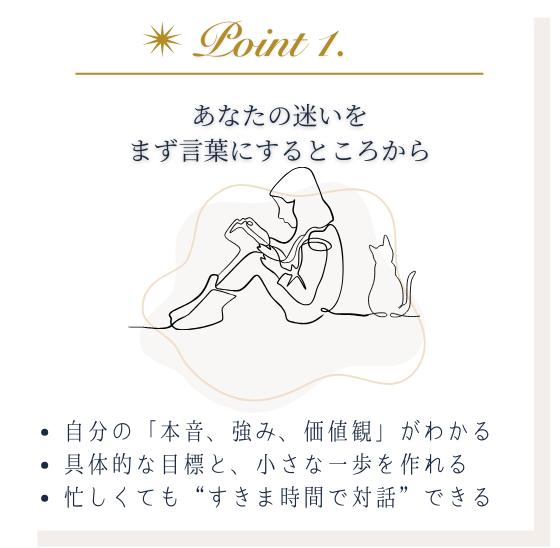
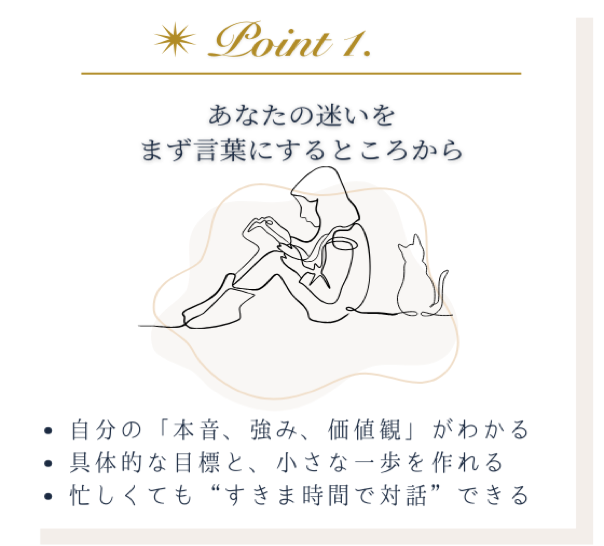
LP改善: copy2テキスト化、フォントサイズ調整、Point画像幅統一、チャット高さ調整など
Made-with: Cursor

diff --git a/index.html b/index.html
@@ -59,11 +59,24 @@
                 linear-gradient(to bottom, rgba(255,255,255,0.45) 1px, transparent 1px);
             background-size: 28px 28px;
         }
-        /* チャット iframe: モバイルで高さ控えめ、sm以上で700px */
-        .chat-iframe-wrap { min-height: 420px; }
-        .chat-iframe-h { min-height: 420px; display: block; }
-        @media (min-width: 640px) { .chat-iframe-wrap { min-height: 600px; } .chat-iframe-h { min-height: 600px; } }
-        @media (min-width: 1024px) { .chat-iframe-wrap { min-height: 700px; } .chat-iframe-h { min-height: 700px; } }
+        /* チャット iframe: スマホは画面いっぱい、PCは1画面に収まる高さ */
+        .chat-iframe-wrap { min-height: calc(100vh - 140px); }
+        .chat-iframe-h { min-height: calc(100vh - 140px); display: block; }
+        @media (min-width: 640px) {
+            .chat-iframe-wrap { min-height: min(600px, calc(100vh - 180px)); }
+            .chat-iframe-h { min-height: min(600px, calc(100vh - 180px)); }
+        }
+        @media (min-width: 1024px) {
+            .chat-iframe-wrap { height: min(700px, calc(100vh - 260px)); min-height: 420px; }
+            .chat-iframe-h { height: min(700px, calc(100vh - 260px)); min-height: 420px; display: block; }
+        }
+        /* 正式版でできること: ゴールドライン・フォントサイズ */
+        .section-official { position: relative; }
+        .section-official::before { content: ''; position: absolute; top: 0; left: 50%; transform: translateX(-50%); width: 80%; max-width: 400px; height: 2px; background: linear-gradient(to right, transparent, #b8860b, #daa520, transparent); opacity: 0.9; }
+        .section-official .section-title { font-size: 28px; }
+        .section-official .section-subtitle { font-size: 21px; }
+        .section-official .section-body { font-size: 17px; }
+        .section-official .gold-line { height: 2px; background: linear-gradient(to right, #b8860b, #daa520); margin: 0.5rem auto 1.5rem; width: 120px; }
     </style>
 </head>
 <body class="text-gray-800">
@@ -79,7 +92,7 @@
         <div class="fv-wrap relative z-10 px-4 sm:px-0 pt-0 sm:pt-1 pb-10 sm:pb-14">
             <!-- メインコピー＋PC画像（FV_TOP.png） -->
             <div class="mb-1 sm:mb-2 flex justify-center fv-animate">
-                <img src="image/FV_TOP.png" alt="わたしらしさの輪郭を取り戻し、一歩前へ" class="w-full max-w-[920px] mx-auto h-auto object-contain object-[0%_45%]" />
+                <img src="image/FV_TOP.png" alt="わたしらしさの輪郭を取り戻し、一歩前へ" class="w-full max-w-[850px] mx-auto h-auto object-contain object-[0%_45%]" />
             </div>
 
             <div class="relative flex flex-col md:flex-row md:items-flex-start md:justify-center md:gap-6">
@@ -90,11 +103,11 @@
                         <img src="image/FV_message1.png" alt="育児も、キャリアも どちらも大切にしたい でも、どう進めばいいのか わからない――" class="w-full h-auto" />
                     </div>
                     <!-- 下部: FV_message2 と FV_hands を常に横並び -->
-                    <div class="flex flex-row items-center justify-center gap-2 sm:gap-4 md:gap-6 fv-animate fv-animate-delay-3 w-full max-w-[520px] mt-1 sm:mt-2">
-                        <div class="max-w-[240px] sm:max-w-[340px] md:max-w-[440px] flex-shrink-0 fv-hover-scale">
+                    <div class="flex flex-row items-start justify-center gap-2 sm:gap-4 md:gap-6 fv-animate fv-animate-delay-3 w-full max-w-[520px] mt-1 sm:mt-2">
+                        <div class="max-w-[260px] sm:max-w-[360px] md:max-w-[480px] flex-shrink-0 fv-hover-scale">
                             <img src="image/FV_message2.png" alt="その迷いに寄り添い、あなたのペースで未来を描く 専任AIコーチが伴走します" class="w-full h-auto" />
                         </div>
-                        <div class="rounded-2xl overflow-hidden border border-white/80 shadow-md max-w-[110px] sm:max-w-[160px] md:max-w-[200px] flex-shrink-0 fv-float">
+                        <div class="rounded-2xl overflow-hidden border border-white/80 shadow-md max-w-[110px] sm:max-w-[160px] md:max-w-[200px] flex-shrink-0 fv-float -mt-2 sm:-mt-4 self-start">
                             <img src="image/FV_hands.png" alt="大切な人と手をつなぐ" class="w-full h-auto object-cover object-center" />
                         </div>
                     </div>
@@ -109,33 +122,42 @@
         </div>
     </section>
 
-    <section class="px-4 py-6 sm:px-6 sm:py-8 md:px-8 md:py-10 text-center bg-[#f3eeea]">
-        <img src="image/kazari.png" alt="" class="mx-auto mb-5 sm:mb-6 max-w-[260px] sm:max-w-[300px] w-full h-auto object-contain" aria-hidden="true" />
-        <h2 class="font-source-han-serif text-xl font-bold mb-5 sm:mb-6 text-gray-700">こんな悩み、抱えていませんか？</h2>
-        <div class="flex flex-col justify-center items-center gap-5 sm:gap-6">
-            <img src="image/nayami1.png" alt="やりたいことがあったはずなのに、いつしか見えなくなってしまった" class="fv-hover-scale max-w-[min(560px,94vw)] w-auto h-auto object-contain cursor-pointer" />
-            <img src="image/nayami2.png" alt="産後、キャリアが止まった気がする" class="fv-hover-scale max-w-[min(560px,94vw)] w-auto h-auto object-contain cursor-pointer" />
-            <img src="image/nayami3.png" alt="自信がなくなり、挑戦する気力が湧かない" class="fv-hover-scale max-w-[min(560px,94vw)] w-auto h-auto object-contain cursor-pointer" />
+    <section class="px-4 py-4 sm:px-6 sm:py-6 md:px-8 md:py-6 text-center bg-[#f3eeea] min-h-0">
+        <img src="image/kazari.png" alt="" class="mx-auto mb-3 sm:mb-4 max-w-[200px] sm:max-w-[240px] w-full h-auto object-contain" aria-hidden="true" />
+        <h2 class="font-source-han-serif text-[26px] font-bold mb-3 sm:mb-4 text-gray-700">こんな悩み、抱えていませんか？</h2>
+        <div class="flex flex-col justify-center items-center gap-3 sm:gap-4">
+            <img src="image/nayami1.png" alt="やりたいことがあったはずなのに、いつしか見えなくなってしまった" class="fv-hover-scale max-w-[min(320px,80vw)] w-auto h-auto object-contain cursor-pointer" />
+            <img src="image/nayami2.png" alt="産後、キャリアが止まった気がする" class="fv-hover-scale max-w-[min(320px,80vw)] w-auto h-auto object-contain cursor-pointer" />
+            <img src="image/nayami3.png" alt="自信がなくなり、挑戦する気力が湧かない" class="fv-hover-scale max-w-[min(320px,80vw)] w-auto h-auto object-contain cursor-pointer" />
         </div>
-        <p class="font-source-han-serif mt-6 sm:mt-8 text-lg text-gray-500 max-w-xl mx-auto px-2">
-            子育てと仕事に忙しい毎日の中では、自分自身のことを考える時間は後回しになりがち。誰にも相談できず、自分一人で抱え込んでしまう。そんなママたちの声を元に、このサービスは誕生しました。
+        <p class="font-source-han-serif mt-4 sm:mt-5 text-base text-gray-500 max-w-xl mx-auto px-2 leading-relaxed">
+            子供との時間も大切にしたいけど、<br />
+            　思うようにキャリアを描けないもどかしさ。<br />
+            <br />
+            　あなたの迷いは、あなたのせいじゃない。<br />
+            　環境が変わる中で、<br />
+            　ひとりで答えを出すのはとても難しいから
         </p>
     </section>
 
     <section class="px-4 py-6 sm:px-6 sm:py-8 md:px-8 md:py-10 bg-grid-white">
         <div class="text-center mb-6 sm:mb-8">
-            <img src="image/copy2.png" alt="あなた専属の AIキャリアコーチ が伴走します" class="mx-auto max-w-[85vw] sm:max-w-[320px] md:max-w-[400px] w-auto h-auto object-contain" />
+            <p class="copy2-text font-source-han-serif font-bold text-[26px] leading-relaxed tracking-wide" style="color: #567985;">
+                <span class="block">あなた専属の</span>
+                <span class="inline-block mt-1 px-4 py-1.5 bg-white rounded-sm mx-auto">AIキャリアコーチ</span>
+                <span class="block mt-1">が伴走します</span>
+            </p>
         </div>
 
         <div class="flex flex-col md:flex-row md:flex-wrap md:items-start md:justify-center md:gap-4 max-w-full md:max-w-5xl mx-auto px-1 w-full">
-            <div class="w-full md:w-1/3 md:flex md:flex-col md:items-center md:flex-shrink-0">
-                <img src="image/point1.png" alt="Point 1. あなたの迷いをまず言葉にするところから" class="fv-hover-scale w-full max-w-full h-auto object-contain cursor-pointer" />
+            <div class="w-full md:flex-1 md:min-w-0 md:flex md:flex-col md:items-center">
+                <img src="image/point1.png" alt="Point 1. あなたの迷いをまず言葉にするところから" class="fv-hover-scale w-full max-w-[320px] sm:max-w-[380px] md:max-w-[280px] h-auto object-contain cursor-pointer mx-auto" />
             </div>
-            <div class="w-full md:w-1/3 md:flex md:flex-col md:items-center md:flex-shrink-0">
-                <img src="image/point2.png" alt="Point 2. 仲間と繋がり、視野がひろがる" class="fv-hover-scale w-full max-w-full h-auto object-contain cursor-pointer" />
+            <div class="w-full md:flex-1 md:min-w-0 md:flex md:flex-col md:items-center">
+                <img src="image/point2.png" alt="Point 2. 仲間と繋がり、視野がひろがる" class="fv-hover-scale w-full max-w-[320px] sm:max-w-[380px] md:max-w-[280px] h-auto object-contain cursor-pointer mx-auto" />
             </div>
-            <div class="w-full md:w-1/3 md:flex md:flex-col md:items-center md:flex-shrink-0">
-                <img src="image/point3.png" alt="Point 3. あなたのゴールに合わせて柔軟にサポート" class="fv-hover-scale w-full max-w-full h-auto object-contain cursor-pointer" />
+            <div class="w-full md:flex-1 md:min-w-0 md:flex md:flex-col md:items-center">
+                <img src="image/point3.png" alt="Point 3. あなたのゴールに合わせて柔軟にサポート" class="fv-hover-scale w-full max-w-[320px] sm:max-w-[380px] md:max-w-[280px] h-auto object-contain cursor-pointer mx-auto" />
             </div>
             <!-- 白マーカー風のメッセージ -->
             <div class="w-full md:basis-full mt-6 sm:mt-8 text-center px-2">
@@ -151,7 +173,7 @@
 
     <section class="px-4 py-6 sm:px-6 sm:py-8 md:px-8 md:py-10 bg-[#dcecf6] text-center">
         <img src="image/kazari2.png" alt="" class="mx-auto mb-5 sm:mb-6 max-w-[260px] sm:max-w-[300px] w-full h-auto object-contain" aria-hidden="true" />
-        <h2 class="font-source-han-serif font-bold text-xl mb-5 sm:mb-6 text-relief text-gray-700">AIキャリアコーチとお話ししてみませんか？（無料）</h2>
+        <h2 class="font-source-han-serif font-bold text-[26px] mb-5 sm:mb-6 text-relief text-gray-700">AIキャリアコーチとお話ししてみませんか？（無料）</h2>
         <div class="mb-6 sm:mb-8">
             <img src="image/chat.png" alt="言葉にできないモヤモヤも、忙しい毎日の中の些細な不安も。あなたの専任AIコーチ(試作版)があなたの気持ちを丁寧に受けとめます" class="mx-auto mb-5 sm:mb-6 max-w-[min(360px,92vw)] w-auto h-auto object-contain" />
             <div class="w-full rounded-2xl overflow-hidden chat-iframe-wrap">
@@ -166,15 +188,22 @@
         </div>
     </section>
 
-    <section class="px-4 py-6 sm:px-6 sm:py-8 md:px-8 md:py-10 bg-[#f3eeea]">
-        <h2 class="font-source-han-serif text-center font-bold text-xl mb-5 sm:mb-6 text-relief text-gray-700">正式版でできること</h2>
-        <p class="font-source-han-serif text-center text-lg text-gray-600 mb-5 sm:mb-6 max-w-md mx-auto px-2">"自分の人生を<br>より心地よく生きるためのサポート"<br>がさらに拡張されます</p>
-        <div class="flex flex-col items-center gap-5 sm:gap-6 max-w-full sm:max-w-2xl mx-auto">
-            <img src="image/service1.png" alt="自己理解の深堀り（コーチング機能）" class="fv-hover-scale max-w-full w-auto h-auto object-contain cursor-pointer" />
-            <img src="image/service2.png" alt="新たな働き方との出会い（キャリアSNS機能）" class="fv-hover-scale max-w-full w-auto h-auto object-contain cursor-pointer" />
-            <img src="image/service3.png" alt="働くママ同士のつながり（ワーママコミュニティ機能）" class="fv-hover-scale max-w-full w-auto h-auto object-contain cursor-pointer" />
+    <section class="section-official px-4 py-6 sm:px-6 sm:py-8 md:px-8 md:py-10 bg-[#f3eeea]">
+        <h2 class="section-title font-source-han-serif text-center font-bold text-relief text-gray-700">正式版でできること</h2>
+        <div class="gold-line"></div>
+        <p class="section-subtitle font-source-han-serif text-center text-gray-600 mb-5 sm:mb-6 max-w-md mx-auto px-2">"自分の人生を<br>より心地よく生きるためのサポート"<br>がさらに拡張されます</p>
+        <div class="flex flex-col md:flex-row md:flex-wrap md:items-start md:justify-center gap-5 sm:gap-6 md:gap-6 max-w-full md:max-w-5xl mx-auto">
+            <div class="w-full md:w-1/3 md:flex md:flex-col md:items-center md:flex-shrink-0">
+                <img src="image/service1.png" alt="自己理解の深堀り（コーチング機能）" class="fv-hover-scale w-full max-w-full md:max-w-[260px] h-auto object-contain cursor-pointer" />
+            </div>
+            <div class="w-full md:w-1/3 md:flex md:flex-col md:items-center md:flex-shrink-0">
+                <img src="image/service2.png" alt="新たな働き方との出会い（キャリアSNS機能）" class="fv-hover-scale w-full max-w-full md:max-w-[280px] w-auto h-auto object-contain cursor-pointer" />
+            </div>
+            <div class="w-full md:w-1/3 md:flex md:flex-col md:items-center md:flex-shrink-0">
+                <img src="image/service3.png" alt="働くママ同士のつながり（ワーママコミュニティ機能）" class="fv-hover-scale w-full max-w-full md:max-w-[260px] h-auto object-contain cursor-pointer" />
+            </div>
         </div>
-        <p class="font-source-han-serif text-center text-lg text-gray-600 mt-6 sm:mt-8 max-w-md mx-auto px-2 leading-relaxed">
+        <p class="section-body font-source-han-serif text-center text-gray-600 mt-6 sm:mt-8 max-w-md mx-auto px-2 leading-relaxed">
             あなたのペースで、<br>少しずつ未来の選択肢を<br>見える形にするための機能です。<br><strong>"焦らず、無理なく、確実に"。</strong>
         </p>
     </section>
@@ -184,7 +213,7 @@
             <img src="image/footer_back.png" alt="" class="w-full h-full object-cover object-center" aria-hidden="true" />
         </div>
         <div class="relative z-10">
-        <p class="font-source-han-serif font-bold text-xl mb-4">未来のあなたへ、今すぐ一歩。</p>
+        <p class="font-source-han-serif font-bold text-[26px] mb-4">未来のあなたへ、今すぐ一歩。</p>
         <img src="image/message3.png" alt="家族を大切にしながら、自分の人生もあきらめない。あなたの本音を受け止め、未来へ導く伴走者として私たちはいます。" class="mx-auto mb-6 sm:mb-8 max-w-[min(28rem,92vw)] w-auto h-auto object-contain" />
         <div class="flex justify-center mb-4">
             <a href="https://ssl.form-mailer.jp/fms/779318b5877669" class="inline-block fv-hover-scale" aria-label="正式版リリースのお知らせを受け取る（無料）">
